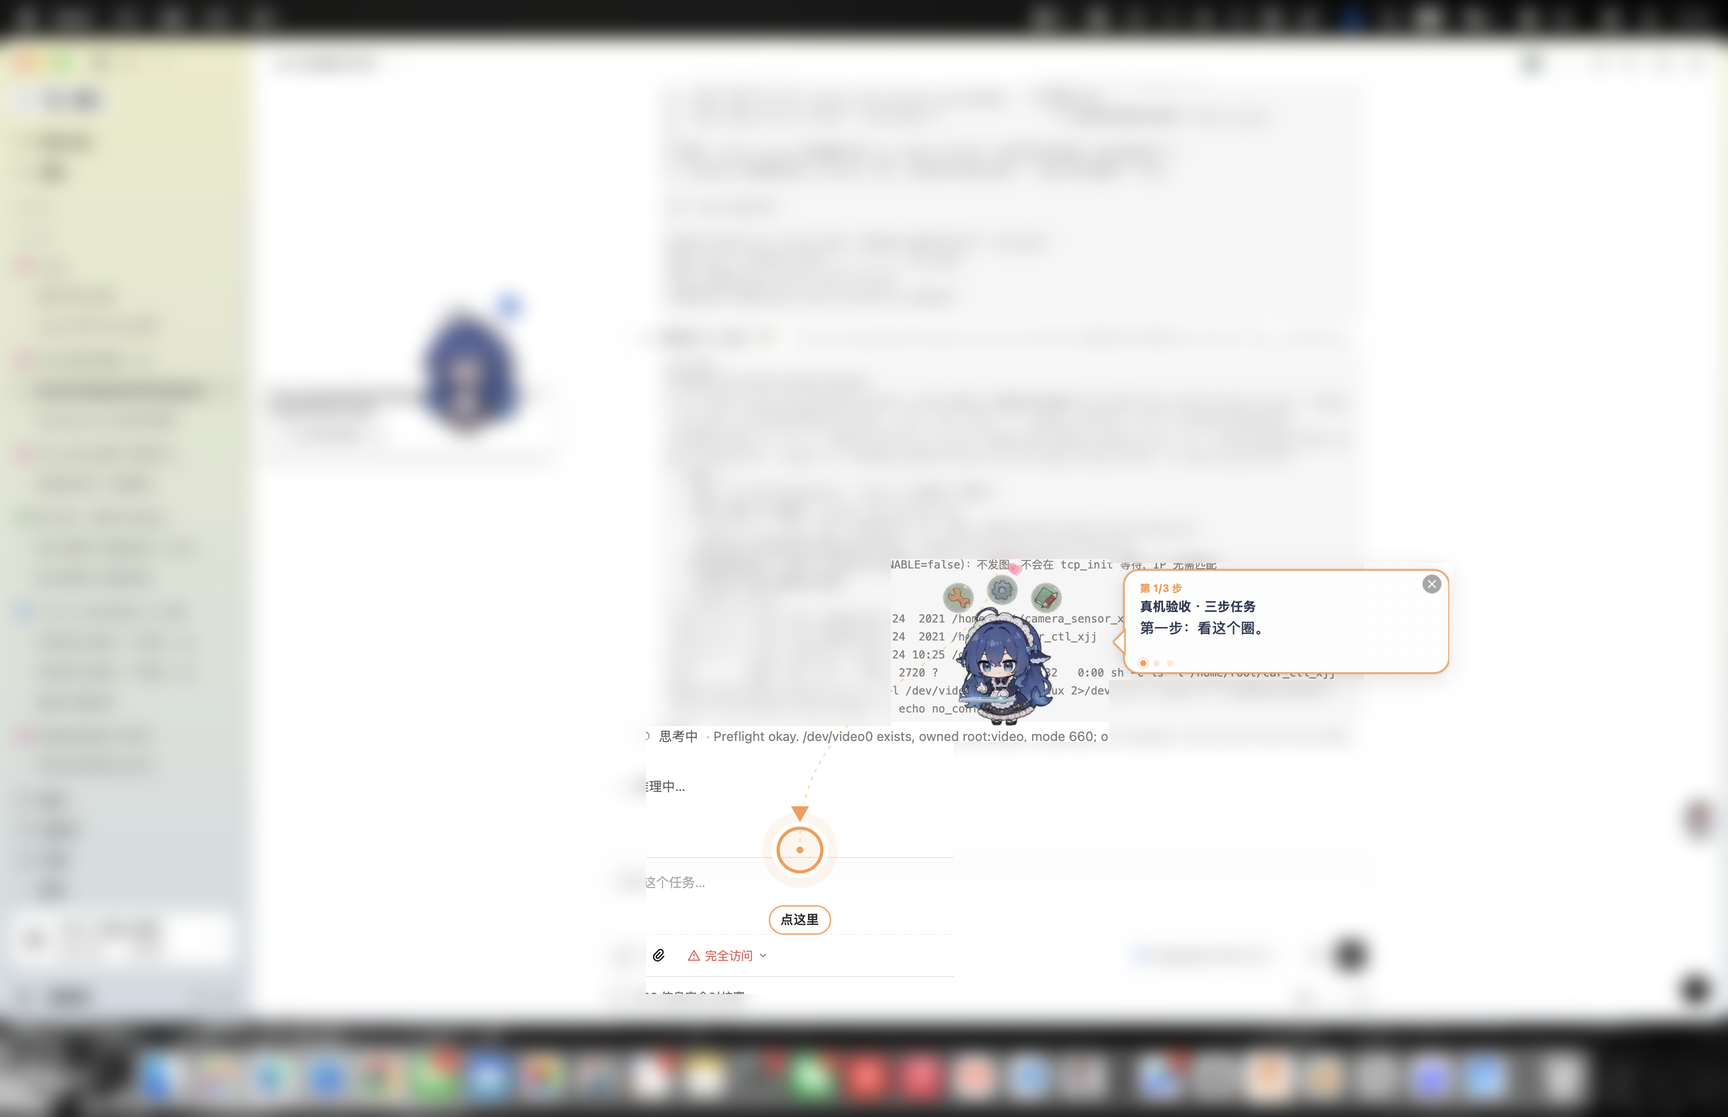
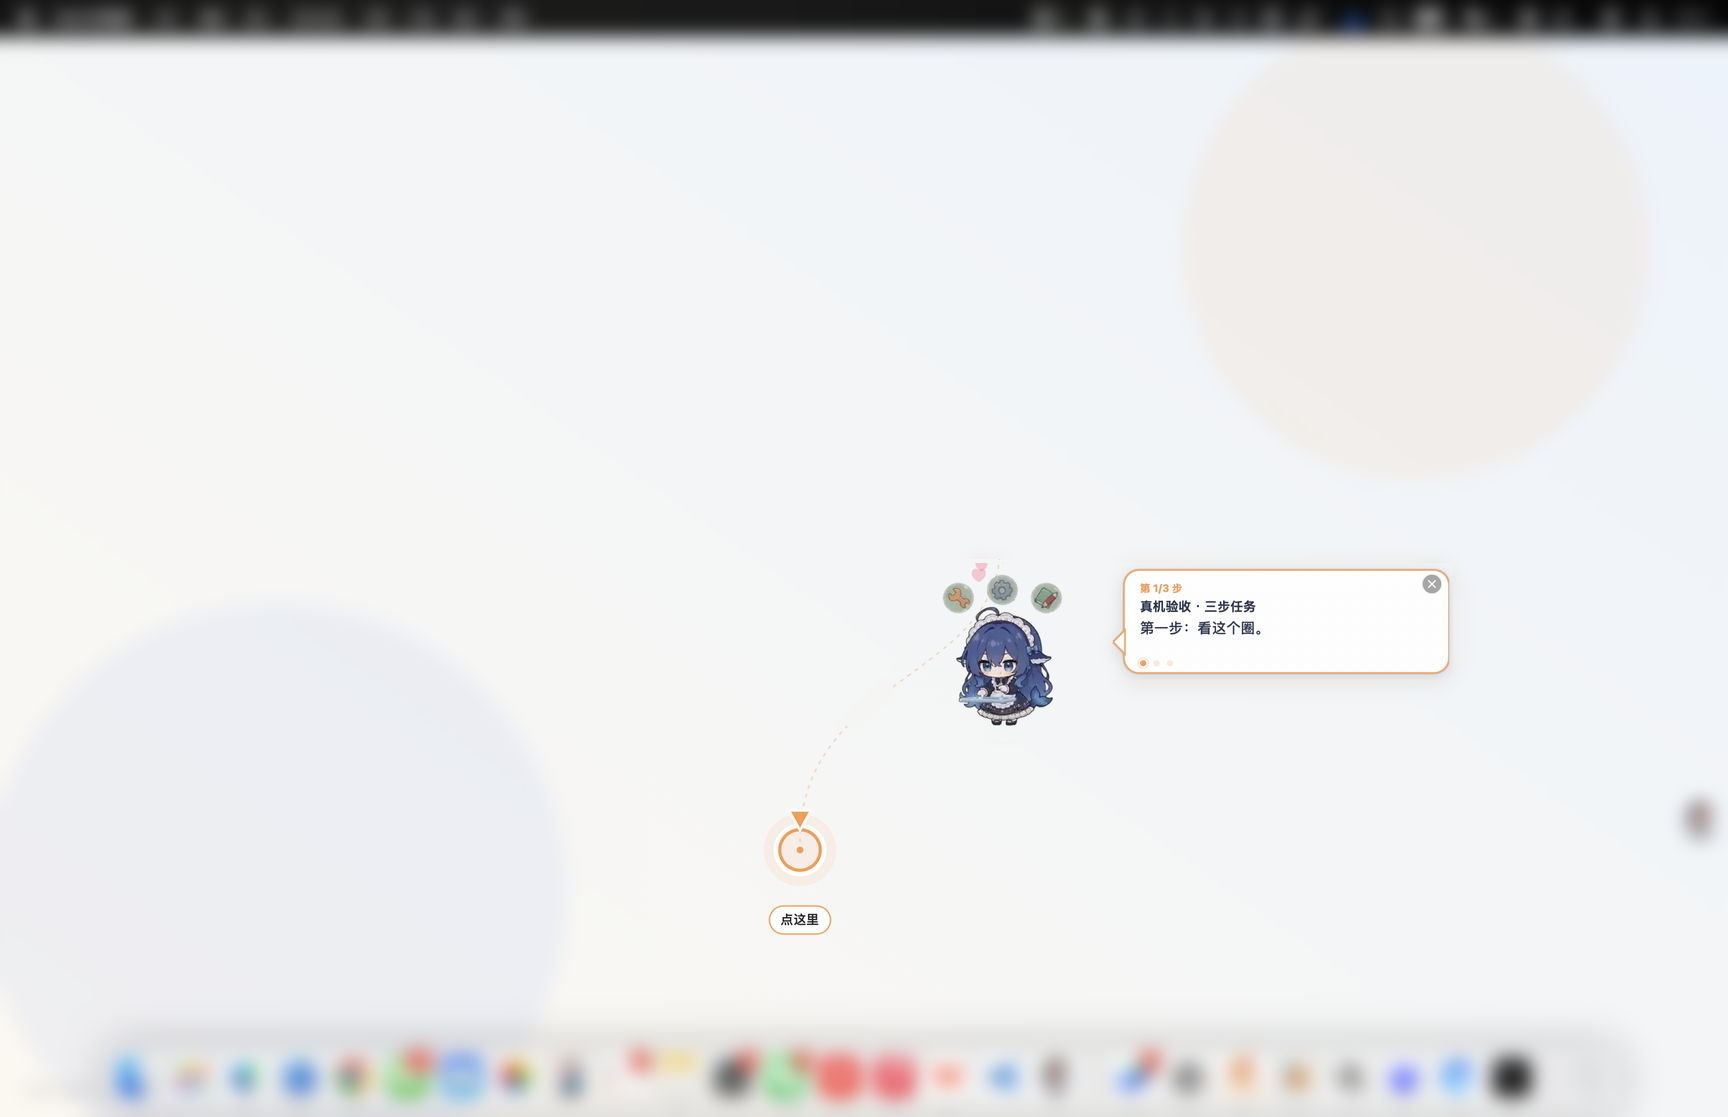
1.1.0: demo stage screenshots, final audit 123/123, Windows CI

diff --git a/Sources/Stage.swift b/Sources/Stage.swift
@@ -1,0 +1,36 @@
+import AppKit
+import Foundation
+
+// 演示舞台：盖住其它应用、抬高桌宠/气泡层，专门用于截图、录屏和验收。
+extension AppController {
+    func showStage() {
+        guard stageWindow == nil else { return }
+        let screen = ScreenSpace.mainScreen
+        let w = NSWindow(contentRect: screen.frame, styleMask: .borderless, backing: .buffered, defer: false)
+        w.isOpaque = true
+        w.backgroundColor = NSColor(calibratedRed: 0.96, green: 0.95, blue: 0.93, alpha: 1)
+        w.hasShadow = false
+        w.ignoresMouseEvents = true
+        w.level = NSWindow.Level(rawValue: NSWindow.Level.floating.rawValue + 2)
+        w.collectionBehavior = [.canJoinAllSpaces, .stationary, .fullScreenAuxiliary]
+        w.isReleasedWhenClosed = false
+        w.contentView = StageView(frame: NSRect(origin: .zero, size: screen.frame.size))
+        w.orderFrontRegardless()
+        stageWindow = w
+        petWindow.level = NSWindow.Level(rawValue: NSWindow.Level.floating.rawValue + 3)
+        bubbleWindow.level = NSWindow.Level(rawValue: NSWindow.Level.floating.rawValue + 3)
+        closeWindow.level = NSWindow.Level(rawValue: NSWindow.Level.floating.rawValue + 4)
+        logLine("stage on")
+    }
+
+    func hideStage() {
+        guard let w = stageWindow else { return }
+        w.orderOut(nil)
+        stageWindow = nil
+        petWindow.level = .floating
+        bubbleWindow.level = .floating
+        closeWindow.level = NSWindow.Level(rawValue: NSWindow.Level.floating.rawValue + 1)
+        logLine("stage off")
+    }
+
+}

diff --git a/Sources/Views.swift b/Sources/Views.swift
@@ -656,6 +656,31 @@ final class RestoreView: NSView {
     override func mouseDown(with event: NSEvent) { onClick?() }
 }
 
+// MARK: - 演示舞台（盖住其它应用，抬高桌宠层，供截图/录屏）
+final class StageView: NSView {
+    override var isFlipped: Bool { true }
+    override func draw(_ dirtyRect: NSRect) {
+        let w = bounds.width, h = bounds.height
+        let grad = NSGradient(starting: NSColor(calibratedRed: 0.985, green: 0.965, blue: 0.930, alpha: 1),
+                              ending: NSColor(calibratedRed: 0.905, green: 0.940, blue: 0.985, alpha: 1))!
+        grad.draw(in: bounds, angle: -55)
+        for (i, c) in [NSColor(calibratedRed: 0.98, green: 0.62, blue: 0.32, alpha: 0.10),
+                       NSColor(calibratedRed: 0.36, green: 0.50, blue: 0.92, alpha: 0.09)].enumerated() {
+            let r = min(w, h) * (i == 0 ? 0.42 : 0.52)
+            let cx = i == 0 ? w * 0.82 : w * 0.16
+            let cy = i == 0 ? h * 0.22 : h * 0.80
+            c.setFill()
+            NSBezierPath(ovalIn: NSRect(x: cx - r / 2, y: cy - r / 2, width: r, height: r)).fill()
+        }
+        let attrs: [NSAttributedString.Key: Any] = [
+            .font: NSFont.systemFont(ofSize: 12, weight: .medium),
+            .foregroundColor: NSColor(calibratedWhite: 0.25, alpha: 0.28)
+        ]
+        NSAttributedString(string: "桌面大肥鱼 Coach", attributes: attrs)
+            .draw(at: NSPoint(x: 26, y: h - 34))
+    }
+}
+
 // MARK: - 指针层（每块屏一个，鼠标穿透）
 
 final class PointerView: NSView {

diff --git a/Sources/Controller.swift b/Sources/Controller.swift
@@ -24,6 +24,7 @@ final class AppController: NSObject, NSApplicationDelegate, NSMenuDelegate {
     var statusItem: NSStatusItem!
     var statusMenu: NSMenu!
     var server: CoachServer?
+    var stageWindow: NSWindow?
 
     // 气泡状态
     var bubbleContent = false
@@ -966,6 +967,10 @@ final class AppController: NSObject, NSApplicationDelegate, NSMenuDelegate {
             }
             player.play(clip, loop: ["idle", "thinking", "working"].contains(clip), autoIdle: true)
             return ["ok": true, "mood": mood, "clip": clip]
+
+        case "stage":
+            if bool(cmd["on"], default: true) { showStage() } else { hideStage() }
+            return ["ok": true, "stage": stageWindow != nil]
 
         case "hide":
             hidePetByUser()

diff --git a/Sources/Status.swift b/Sources/Status.swift
@@ -57,6 +57,7 @@ extension AppController {
             "rice": settings.riceCount ?? 0,
             "focusRemaining": focusUntil.map { max(0, Int($0.timeIntervalSinceNow)) } ?? 0,
             "quietRemaining": quietUntil.map { max(0, Int($0.timeIntervalSinceNow)) } ?? 0,
+            "stage": stageWindow != nil,
             "pointer": pointerGlobal != nil,
             "clip": player.currentName,
             "frame": player.frameIndex,

diff --git a/audit/audit.py b/audit/audit.py
@@ -664,6 +664,7 @@ def check_visual() -> None:
         coach("start", timeout=20)
         st = status()
     scale = st.get("mainScale") or 2
+    coach_json("stage", "on")
     coach_json("move", "--x", "1000", "--y", "650")
     coach_json("hello", "--agent", "audit")
     coach_json("guide", "--title", "真机验收 · 三步任务", "--step", "第一步：看这个圈。", "--step", "第二步：继续。", "--step", "第三步：完成。")
@@ -712,6 +713,7 @@ def check_visual() -> None:
     for f in ["01-guide.png", "02-success.png", "03-companion.png", "04-music.png", "05-rice.png"]:
         p = SHOTS / f
         record(f"截图非空 {f}", p.exists() and p.stat().st_size > 20000, f"{p.stat().st_size//1024 if p.exists() else 0} KB", "visual")
+    coach_json("stage", "off")
 
 
 def check_cleanup() -> None:

diff --git a/README.md b/README.md
@@ -22,7 +22,7 @@
 - **趣味互动**：摸头、戳身体、碰尾巴、拖拽、双击转圈、**添一碗米饭**、番茄钟专注、游到鼠标边、感知应用切换。
 - **终端轻量版**：`dafeiyu tui`，ASCII 鱼 + 歌词 + 步骤 + 米饭，Windows/macOS 共用同一核心；不依赖 AppKit。
 - **小体积**：单二进制 1.1 MB（universal）；13 组 / 820 帧动画共 6.90 MB；音乐适配器 196 KB；运行体总计约 8.2 MB。
-- **低占用**：待机 CPU 约 3.5%、RSS 约 70 MB；动画 + 指针约 6.9%、83 MB；冷启动 0.30 s（本机实测，见 [审计](docs/AUDIT.md)）。
+- **低占用**：待机 CPU 约 4.7%、RSS 约 71 MB；动画 + 指针约 7.2%、81 MB；冷启动 0.30 s（本机实测，见 [审计](docs/AUDIT.md)）。
 - **好适配**：Qoder / Claude Code / Codex / dsh 四套 skill，三套 `/dafeiyu` 斜杠命令，一个 stdio MCP，外加通用 `AGENTS.md` 片段。
 
 ## 音乐与唱歌
@@ -100,6 +100,7 @@ dafeiyu doctor                  # 自检（进程/素材/音乐/终端版/skills
 dafeiyu hello --agent qoder     # 打招呼
 dafeiyu demo                    # 三步演示（指针 + 气泡 + 撒花）
 dafeiyu tui                     # 终端轻量版（可同时作为 macOS 原生版的显示器）
+dafeiyu stage on                # 演示舞台：盖住其它应用，方便截图/录屏（off 恢复）
 ```
 
 ## 在 Agent 里怎么用
@@ -174,6 +175,7 @@ Codex 的 TOML、Qoder/Claude 的 JSON 片段在 [`adapters/mcp/`](adapters/mcp/
 | `dafeiyu focus --minutes 25` / `--cancel` | 番茄钟 |
 | `dafeiyu quiet on --minutes 60` | 会议模式（到点自动解除） |
 | `dafeiyu tui` | 终端轻量版（Windows/macOS） |
+| `dafeiyu stage on\|off` | 演示舞台：盖住其它应用，截屏/录屏用 |
 | `dafeiyu hide` / `show` / `quiet on\|off` / `scale 1.2` | 显隐 / 安静 / 大小 |
 | `dafeiyu status [--json]` / `info` / `doctor` | 状态 / 屏幕 / 自检 |
 | `dafeiyu start` / `stop` | 启动 / 退出守护进程 |
@@ -243,8 +245,8 @@ dafeiyu-daemon (Swift + AppKit, universal 单二进制)
 | 音乐适配器 | 196 KB（MediaRemote framework + Perl 脚本） |
 | 安装后运行体 | ≈ 8.2 MB |
 | 冷启动 | 0.30 s |
-| 待机 CPU / RSS | 3.5% / 70 MB |
-| 动画 + 指针 CPU / RSS | 6.9% / 83 MB |
+| 待机 CPU / RSS | 4.7% / 71 MB |
+| 动画 + 指针 CPU / RSS | 7.2% / 81 MB |
 
 优化手段：24 Hz 主时钟 + 12 fps 动画、仅在换帧时重绘、窗口被遮挡/隐藏时暂停、LRU 帧缓存、指针层仅在激活时置顶、待机操作限频、10 分钟无交互后睡觉。
 

diff --git a/docs/AUDIT.md b/docs/AUDIT.md
@@ -56,10 +56,10 @@
 | 音乐适配器 | 196 KB | < 1 MB |
 | 运行体总计 | ≈ 8.2 MB | < 10 MB |
 | 冷启动 | 0.30 s | < 4 s |
-| 待机 CPU | 3.5% | < 6% |
-| 待机 RSS | 70 MB | < 140 MB |
-| 动画 + 指针 CPU | 6.9% | < 14% |
-| 动画 + 指针 RSS | 83 MB | < 160 MB |
+| 待机 CPU | 4.7% | < 6% |
+| 待机 RSS | 71 MB | < 140 MB |
+| 动画 + 指针 CPU | 7.2% | < 14% |
+| 动画 + 指针 RSS | 81 MB | < 160 MB |
 
 > 性能受屏幕尺寸、Retina、系统负载影响；此为 M1 Max 采样，不是上限承诺。
 
